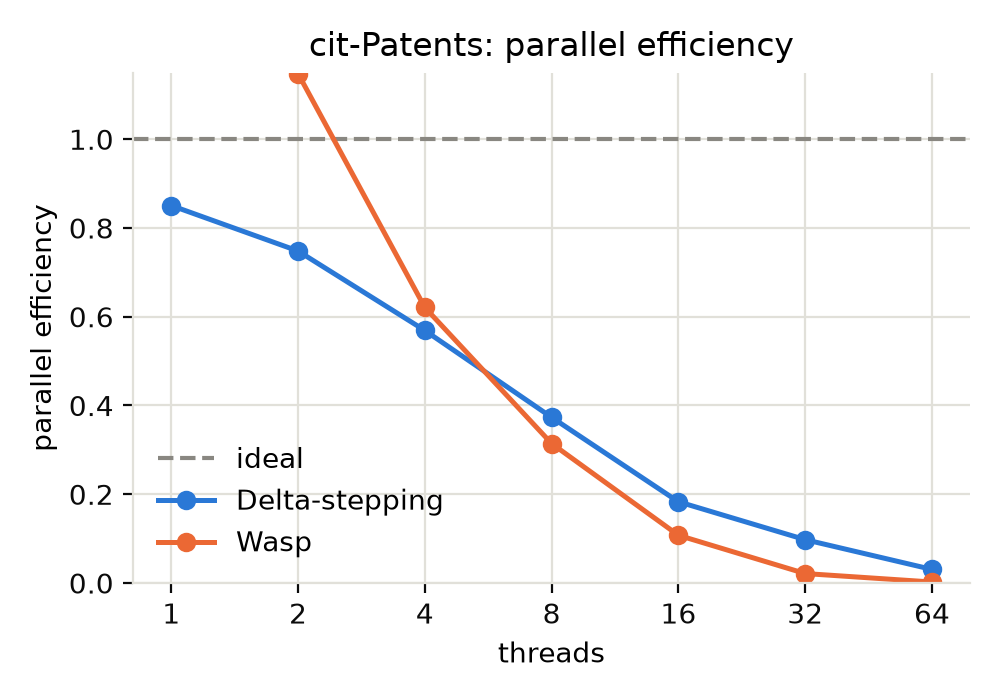
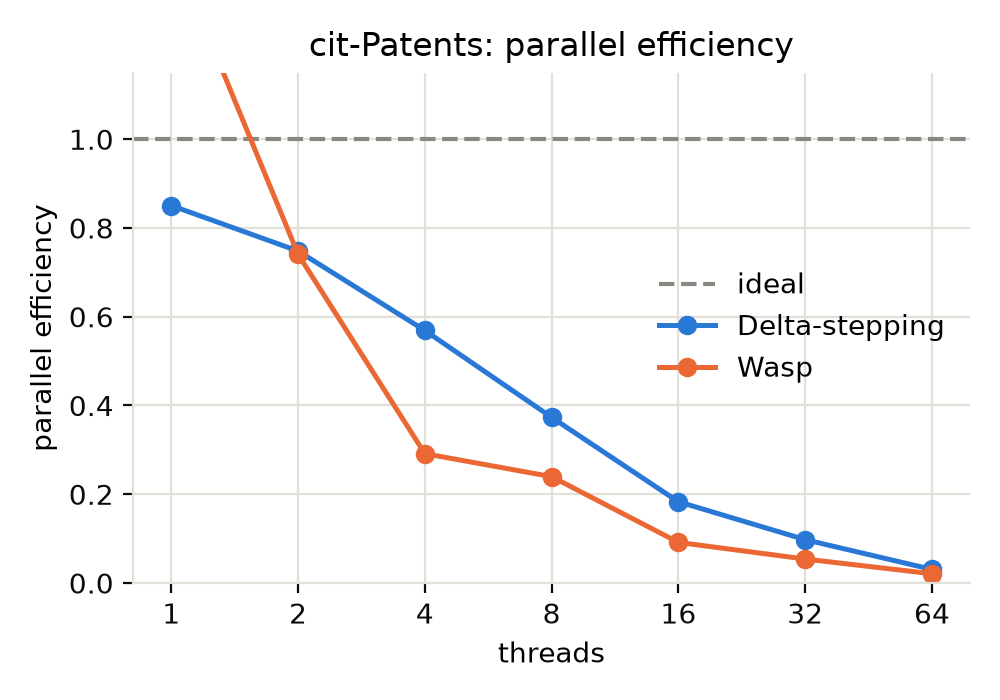
new wasp

diff --git a/src/wasp.c b/src/wasp.c
@@ -9,6 +9,7 @@
 #include <sched.h>
 
 #define WASP_IDLE INT32_MAX
+#define WASP_CHUNK_SIZE 64
 
 typedef struct {
     uint32_t *nodes;
@@ -235,30 +236,40 @@ static void wasp_worker(int tid, wasp_workspace_t *ws, csr_graph_t *g, float *di
             }
         }
 
-        omp_set_lock(&self->lock);
-        bucket_t round = self->current;
-        self->current = (bucket_t){0};
-        omp_unset_lock(&self->lock);
-
         int prio = self->curr_prio;
-        self->stage.count = 0;
 
-        for(uint32_t i = 0; i < round.count; i++){
-            uint32_t u = round.nodes[i];
-            if(dist[u] < prio * delta) continue; // stale: a better path already moved u to an earlier bucket
+        // small chunks at a time, so current stays mostly stealable
+        for(;;){
+            uint32_t chunk[WASP_CHUNK_SIZE];
+            uint32_t chunk_n;
 
-            for(uint64_t e = g->row_ptr[u]; e < g->row_ptr[u + 1]; e++){
-                uint32_t v = g->col_idx[e];
-                float nd = dist[u] + g->weights[e];
-                wasp_relax(dist, self, prio, delta, v, nd);
-            }
-        }
-        free(round.nodes);
-
-        if(self->stage.count > 0){
             omp_set_lock(&self->lock);
-            for(uint32_t i = 0; i < self->stage.count; i++) bucket_push(&self->current, self->stage.nodes[i]);
+            chunk_n = self->current.count < WASP_CHUNK_SIZE ? self->current.count : WASP_CHUNK_SIZE;
+            for(uint32_t i = 0; i < chunk_n; i++) chunk[i] = self->current.nodes[i];
+            uint32_t remaining = self->current.count - chunk_n;
+            memmove(self->current.nodes, self->current.nodes + chunk_n, remaining * sizeof(uint32_t));
+            self->current.count = remaining;
             omp_unset_lock(&self->lock);
+
+            if(chunk_n == 0) break;
+
+            self->stage.count = 0;
+            for(uint32_t i = 0; i < chunk_n; i++){
+                uint32_t u = chunk[i];
+                if(dist[u] < prio * delta) continue; // stale: a better path already moved u to an earlier bucket
+
+                for(uint64_t e = g->row_ptr[u]; e < g->row_ptr[u + 1]; e++){
+                    uint32_t v = g->col_idx[e];
+                    float nd = dist[u] + g->weights[e];
+                    wasp_relax(dist, self, prio, delta, v, nd);
+                }
+            }
+
+            if(self->stage.count > 0){
+                omp_set_lock(&self->lock);
+                for(uint32_t i = 0; i < self->stage.count; i++) bucket_push(&self->current, self->stage.nodes[i]);
+                omp_unset_lock(&self->lock);
+            }
         }
     }
 }
